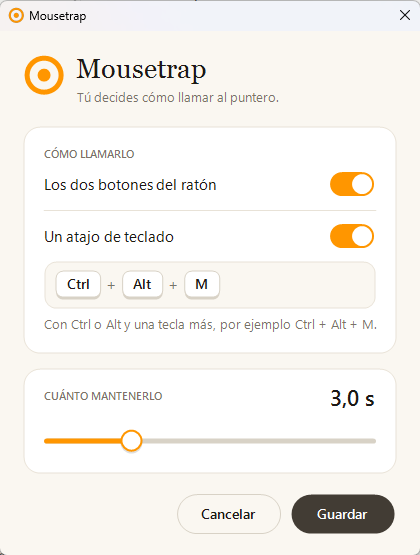
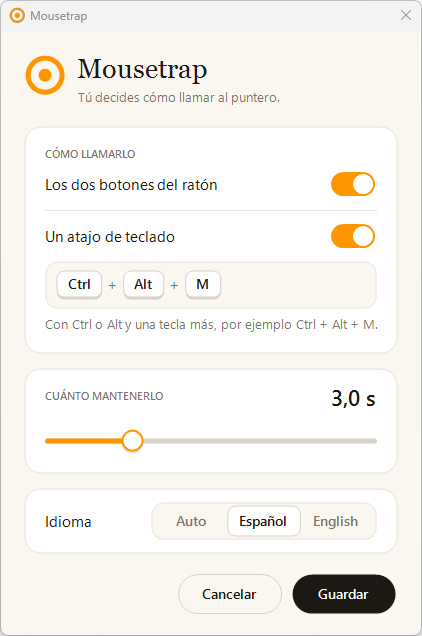
docs: English first in the README, language option, new screenshots

diff --git a/README.md b/README.md
@@ -1,15 +1,122 @@
 # 🪤 Mousetrap
 
-**El puntero se te escapa entre pantallas. Esta es la ratonera.**
+**Your pointer keeps escaping across screens. This is the trap.**
 
-*Your pointer keeps escaping across screens. This is the trap.*
+*El puntero se te escapa entre pantallas. Esta es la ratonera.*
 
 ![C#](https://img.shields.io/badge/C%23-.NET%20Framework%204-512BD4?logo=dotnet&logoColor=white)
 ![Windows](https://img.shields.io/badge/Windows-10%20%7C%2011-0078D4)
-![Size](https://img.shields.io/badge/exe-39%20KB-FF9600)
+![Size](https://img.shields.io/badge/exe-41%20KB-FF9600)
 ![License](https://img.shields.io/badge/license-GPL--3.0-3DDC84)
 
-[**🇪🇸 Español**](#-español) · [**🇬🇧 English**](#-english)
+[**🇬🇧 English**](#-english) · [**🇪🇸 Español**](#-español)
+
+---
+
+## 🇬🇧 English
+
+### The problem
+
+Three screens, one pointer and no idea where it went. We all know the ritual: shake the mouse like a maraca and chase whatever moves. It works, but nobody would call it elegant.
+
+**Mousetrap** takes a different approach: don't look for it, make it come to you. Hold both mouse buttons for 3 seconds and the pointer shows up in the middle of the screen you choose, marked with an orange disc that is hard to miss.
+
+### ⚙ How it works
+
+| Mechanism | What it does |
+|---|---|
+| ⏱ **Two buttons, 3 seconds** | Left and right together: a gesture you almost never make by accident. If you do, the hold time can be changed in Settings |
+| ⌨ **Or your own shortcut** | If you prefer the keyboard, record whatever combination you like (Ctrl + Alt + M, say) by pressing it once. It works alongside the mouse gesture or instead of it |
+| 🎯 **Jump to the centre** | Of the main screen, the screen the pointer is already on, or a specific one; you pick from the tray |
+| 🟠 **Orange disc** | Marks the spot for a moment so your eye finds it first time |
+| 🤫 **No ghost clicks** | Letting go of the buttons clicks nothing and opens no context menu on whatever was underneath |
+| 🖥 **Any screen layout** | Different zoom levels, portrait screens, screens sitting higher than the main one: the centre is the centre |
+| 🪶 **A single 41 KB exe** | No installer, no admin rights, no network connections |
+
+### 🖱 Usage
+
+1. Run `Mousetrap.exe`. An orange circle appears in the system tray, next to the clock.
+2. Hold both mouse buttons for 3 seconds.
+3. The pointer shows up in the middle of the main screen.
+
+Right-click the tray icon to choose the destination, and not much else:
+
+| Option | What it does |
+|---|---|
+| The main screen | Always the middle of the main screen (default) |
+| The screen the pointer is already on | Centres it without changing screens |
+| Screen 1, 2, 3… | Always that screen; if it gets unplugged, falls back to the main one |
+| Settings… | Opens the settings window; clicking the icon opens it too |
+| Start with Windows | Launches on sign-in |
+| Exit | Closes the trap |
+
+The app speaks Spanish on Spanish systems and English everywhere else, unless you pick a language in Settings.
+
+### 🎛 Settings
+
+<p align="center"><img src="docs/settings.png" alt="Mousetrap settings window" width="340"></p>
+
+"Settings…" in the tray menu opens a window with the only things there are to decide:
+
+- **How to call it**: with both mouse buttons, with a keyboard shortcut, or with both.
+- **The shortcut**: click the box and press the keys. It takes Ctrl or Alt plus one more key. If another program already uses the combination, or it types a character on your keyboard (Ctrl + Alt + 2 is @ on a Spanish one), the window says so and won't save it.
+- **How long to hold**: from 0.5 to 10 seconds.
+- **Language**: the one Windows is in (Auto), Spanish or English.
+
+It takes effect on Save, no restart needed. Everything lands in `%APPDATA%\Mousetrap\config.ini`, which you can also edit by hand; if you do, restart the app afterwards.
+
+```ini
+# primary | cursor | a display name such as \\.\DISPLAY2
+target=primary
+# milliseconds the buttons or the shortcut must be held (minimum 500)
+hold_ms=3000
+# on | off: whether both mouse buttons call the pointer
+mouse=on
+# a keyboard shortcut that also calls it; empty for none
+hotkey=Ctrl+Alt+M
+# auto (the language Windows is in), es or en
+language=auto
+```
+
+### 🎯 Technical decisions
+
+| Decision | Why |
+|---|---|
+| 🪝 **No mouse or keyboard hooks** | A timer asks 20 times a second whether both buttons are down (`GetAsyncKeyState`). Nothing sits between your mouse and the rest of your programs |
+| 🟠 **The disc earns its keep** | It appears right under the pointer and is the one that receives the button releases, so they never reach the window underneath |
+| ⌨ **Windows keeps the shortcut** | It is registered as a system-wide hot key (`RegisterHotKey`): while you hold it, Windows keeps it and it never reaches the program in front. Still no hooks |
+| ✋ **The half-finished press is cancelled** | Before jumping, it tells the window that had the press in progress to give up (`WM_CANCELMODE`), as Windows does when a dialog pops up, so the jump isn't taken for a drag |
+| 📐 **Per-monitor DPI** | Without it, coordinates get scaled on screens whose zoom differs from the main one and the pointer lands off-centre |
+| 🧰 **Built with what Windows ships** | The .NET Framework 4 C# compiler comes with Windows 10 and 11: no SDK, no NuGet, nothing to install |
+
+### 🧪 Tests
+
+| Command | What it checks |
+|---|---|
+| `test.cmd` | 43 logic tests: hold detection, keyboard shortcuts, configuration and screen choice |
+| `test.cmd e2e` | The above plus an end-to-end test against the real `.exe` |
+
+The end-to-end test presses buttons and keys with synthetic input over a window of its own and checks where the pointer ends up, so it **takes over the mouse and the keyboard for about 30 seconds**. Exit the app first if it is running.
+
+> 😄 Yes: to test an app that moves your mouse, you have to let something move your mouse.
+
+### ▶ Build
+
+```bat
+build.cmd
+```
+
+The result lands in `dist\Mousetrap.exe`.
+
+### ⚠ Limitations
+
+- It does nothing while the active window belongs to a program running as administrator (Task Manager, for example): Windows won't let a normal program see the mouse state there.
+- In games that hold both buttons for several seconds, the pointer will jump too. Exit the app from the tray while you play.
+- The executable isn't signed, so some antivirus tools scan or hold it the first time it runs.
+
+### 📄 License
+
+© 2026 Bernabé Muñoz Peñas. Free software under the [GNU GPL v3.0](LICENSE): use it, modify it and redistribute it; if you distribute a modified version, it has to ship with its source under this same licence.
 
 ---
 
@@ -31,7 +138,7 @@ Tres pantallas, un puntero y ni idea de dónde está. Todos conocemos el ritual:
 | 🟠 **Disco naranja** | Marca el sitio un instante para que el ojo lo encuentre a la primera |
 | 🤫 **Sin clics fantasma** | Al soltar los botones no se pulsa nada ni se abre ningún menú contextual en lo que hubiera debajo |
 | 🖥 **Pantallas de todo tipo** | Con distinto zoom, en vertical o colocadas más arriba que la principal: el centro es el centro |
-| 🪶 **Un solo exe de 39 KB** | Sin instalador, sin permisos de administrador y sin conectarse a nada |
+| 🪶 **Un solo exe de 41 KB** | Sin instalador, sin permisos de administrador y sin conectarse a nada |
 
 ### 🖱 Uso
 
@@ -59,6 +166,7 @@ Con el botón derecho sobre el icono se elige el destino y poco más:
 - **Cómo llamarlo**: con los dos botones del ratón, con un atajo de teclado o con las dos cosas.
 - **El atajo**: haz clic en el recuadro y pulsa las teclas. Lleva Ctrl o Alt y una tecla más. Si la combinación ya la usa otro programa, o en tu teclado escribe un carácter (Ctrl + Alt + 2 es la @ en un teclado español), la ventana lo dice y no la guarda.
 - **Cuánto mantenerlo**: de 0,5 a 10 segundos.
+- **Idioma**: el de Windows (Auto), español o inglés.
 
 Se aplica al guardar, sin reiniciar. Todo queda en `%APPDATA%\Mousetrap\config.ini`, que también se puede editar a mano; en ese caso, reinicia la aplicación después.
 
@@ -71,6 +179,8 @@ hold_ms=3000
 mouse=on
 # atajo de teclado que también lo llama; vacío para no usar ninguno
 hotkey=Ctrl+Alt+M
+# auto (el idioma de Windows), es o en
+language=auto
 ```
 
 ### 🎯 Decisiones técnicas
@@ -88,7 +198,7 @@ hotkey=Ctrl+Alt+M
 
 | Comando | Qué comprueba |
 |---|---|
-| `test.cmd` | 39 tests de la lógica: detección de la pulsación, atajos de teclado, configuración y elección de pantalla |
+| `test.cmd` | 43 tests de la lógica: detección de la pulsación, atajos de teclado, configuración y elección de pantalla |
 | `test.cmd e2e` | Lo anterior y una prueba de extremo a extremo contra el `.exe` real |
 
 La prueba de extremo a extremo pulsa botones y teclas con entrada sintética sobre una ventana propia y comprueba dónde acaba el puntero, así que **toma el control del ratón y del teclado unos 30 segundos**. Cierra antes la aplicación si la tienes abierta.
@@ -112,110 +222,6 @@ El resultado queda en `dist\Mousetrap.exe`.
 ### 📄 Licencia
 
 © 2026 Bernabé Muñoz Peñas. Software libre bajo la [GNU GPL v3.0](LICENSE): puedes usarlo, modificarlo y redistribuirlo; si distribuyes una versión modificada, tiene que ir con su código y bajo esta misma licencia.
-
----
-
-## 🇬🇧 English
-
-### The problem
-
-Three screens, one pointer and no idea where it went. We all know the ritual: shake the mouse like a maraca and chase whatever moves. It works, but nobody would call it elegant.
-
-**Mousetrap** takes a different approach: don't look for it, make it come to you. Hold both mouse buttons for 3 seconds and the pointer shows up in the middle of the screen you choose, marked with an orange disc that is hard to miss.
-
-### ⚙ How it works
-
-| Mechanism | What it does |
-|---|---|
-| ⏱ **Two buttons, 3 seconds** | Left and right together: a gesture you almost never make by accident. If you do, the hold time can be changed in Settings |
-| ⌨ **Or your own shortcut** | If you prefer the keyboard, record whatever combination you like (Ctrl + Alt + M, say) by pressing it once. It works alongside the mouse gesture or instead of it |
-| 🎯 **Jump to the centre** | Of the main screen, the screen the pointer is already on, or a specific one; you pick from the tray |
-| 🟠 **Orange disc** | Marks the spot for a moment so your eye finds it first time |
-| 🤫 **No ghost clicks** | Letting go of the buttons clicks nothing and opens no context menu on whatever was underneath |
-| 🖥 **Any screen layout** | Different zoom levels, portrait screens, screens sitting higher than the main one: the centre is the centre |
-| 🪶 **A single 39 KB exe** | No installer, no admin rights, no network connections |
-
-### 🖱 Usage
-
-1. Run `Mousetrap.exe`. An orange circle appears in the system tray, next to the clock.
-2. Hold both mouse buttons for 3 seconds.
-3. The pointer shows up in the middle of the main screen.
-
-Right-click the tray icon to choose the destination, and not much else:
-
-| Option | What it does |
-|---|---|
-| The main screen | Always the middle of the main screen (default) |
-| The screen the pointer is already on | Centres it without changing screens |
-| Screen 1, 2, 3… | Always that screen; if it gets unplugged, falls back to the main one |
-| Settings… | Opens the settings window; clicking the icon opens it too |
-| Start with Windows | Launches on sign-in |
-| Exit | Closes the trap |
-
-The menu is shown in Spanish on Spanish systems and in English everywhere else.
-
-### 🎛 Settings
-
-<p align="center"><img src="docs/settings.png" alt="Mousetrap settings window" width="340"></p>
-
-"Settings…" in the tray menu opens a window with the only things there are to decide:
-
-- **How to call it**: with both mouse buttons, with a keyboard shortcut, or with both.
-- **The shortcut**: click the box and press the keys. It takes Ctrl or Alt plus one more key. If another program already uses the combination, or it types a character on your keyboard (Ctrl + Alt + 2 is @ on a Spanish one), the window says so and won't save it.
-- **How long to hold**: from 0.5 to 10 seconds.
-
-It takes effect on Save, no restart needed. Everything lands in `%APPDATA%\Mousetrap\config.ini`, which you can also edit by hand; if you do, restart the app afterwards.
-
-```ini
-# primary | cursor | a display name such as \\.\DISPLAY2
-target=primary
-# milliseconds the buttons or the shortcut must be held (minimum 500)
-hold_ms=3000
-# on | off: whether both mouse buttons call the pointer
-mouse=on
-# a keyboard shortcut that also calls it; empty for none
-hotkey=Ctrl+Alt+M
-```
-
-### 🎯 Technical decisions
-
-| Decision | Why |
-|---|---|
-| 🪝 **No mouse or keyboard hooks** | A timer asks 20 times a second whether both buttons are down (`GetAsyncKeyState`). Nothing sits between your mouse and the rest of your programs |
-| 🟠 **The disc earns its keep** | It appears right under the pointer and is the one that receives the button releases, so they never reach the window underneath |
-| ⌨ **Windows keeps the shortcut** | It is registered as a system-wide hot key (`RegisterHotKey`): while you hold it, Windows keeps it and it never reaches the program in front. Still no hooks |
-| ✋ **The half-finished press is cancelled** | Before jumping, it tells the window that had the press in progress to give up (`WM_CANCELMODE`), as Windows does when a dialog pops up, so the jump isn't taken for a drag |
-| 📐 **Per-monitor DPI** | Without it, coordinates get scaled on screens whose zoom differs from the main one and the pointer lands off-centre |
-| 🧰 **Built with what Windows ships** | The .NET Framework 4 C# compiler comes with Windows 10 and 11: no SDK, no NuGet, nothing to install |
-
-### 🧪 Tests
-
-| Command | What it checks |
-|---|---|
-| `test.cmd` | 39 logic tests: hold detection, keyboard shortcuts, configuration and screen choice |
-| `test.cmd e2e` | The above plus an end-to-end test against the real `.exe` |
-
-The end-to-end test presses buttons and keys with synthetic input over a window of its own and checks where the pointer ends up, so it **takes over the mouse and the keyboard for about 30 seconds**. Exit the app first if it is running.
-
-> 😄 Yes: to test an app that moves your mouse, you have to let something move your mouse.
-
-### ▶ Build
-
-```bat
-build.cmd
-```
-
-The result lands in `dist\Mousetrap.exe`.
-
-### ⚠ Limitations
-
-- It does nothing while the active window belongs to a program running as administrator (Task Manager, for example): Windows won't let a normal program see the mouse state there.
-- In games that hold both buttons for several seconds, the pointer will jump too. Exit the app from the tray while you play.
-- The executable isn't signed, so some antivirus tools scan or hold it the first time it runs.
-
-### 📄 License
-
-© 2026 Bernabé Muñoz Peñas. Free software under the [GNU GPL v3.0](LICENSE): use it, modify it and redistribute it; if you distribute a modified version, it has to ship with its source under this same licence.
 
 ---
 
